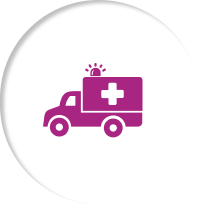
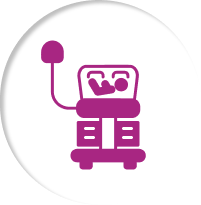
on 19/09

Changed region(s): [[0.1791, 0.1756, 0.7463, 0.8488]]

diff --git a/src/components/Footer/Footer.jsx b/src/components/Footer/Footer.jsx
@@ -53,17 +53,12 @@ const Footer = () => {
         {/* Logo + Info */}
         <div className="space-y-4 text-center lg:text-left flex flex-col items-center lg:items-start">
           <img src={logo} alt="Aansh Logo" />
-          <p className="font-semibold text-base text-secondary md:max-w-md lg:w-full">
+          <p className="font-semibold text-base text-secondary max-w-xs lg:w-full">
             Aansh Children's Hospital offers trusted, compassionate care for
             women and children with expert doctors, innovation, and easy
             appointment booking.
           </p>
-          <button
-            onClick={() => setShowAppointmentModal(true)}
-            className="bg-primary text-white px-4 py-2 rounded-md flex items-center gap-2 mt-4 hover:bg-white hover:text-primary border border-primary"
-          >
-            <span>📅</span> Book an Appointment <span>➔</span>
-          </button>
+          
         </div>
 
         {/* Dynamic Sections */}
@@ -73,7 +68,7 @@ const Footer = () => {
             <div className="lg:hidden">
               <button
                 onClick={() => setOpenIndex(openIndex === i ? null : i)}
-                className="w-full flex justify-between items-center border-b-2 border-primary pb-3 text-2xl font-bold text-primary"
+                className="w-full flex justify-between items-center border-b-2 border-primary pb-1 text-xl font-bold text-primary"
               >
                 {section.title}
                 <FaChevronDown
@@ -81,7 +76,7 @@ const Footer = () => {
                 />
               </button>
               {openIndex === i && (
-                <ul className="mt-2 space-y-1 pl-2">
+                <ul className="pl-2">
                   {section.links.map((link, idx) => (
                     <li key={idx}>
                       <Link
@@ -119,10 +114,10 @@ const Footer = () => {
 
         {/* Location */}
         <div>
-          <h3 className="font-bold text-2xl text-primary mb-2">Location</h3>
+          <h3 className="font-bold text-xl lg:text-2xl text-primary mb-2">Location</h3>
           <p className="text-secondary font-bold">{locationDetails.address}</p>
           <h4 className="mt-4 text-primary font-bold text-xl lg:text-2xl">Call Us</h4>
-          <p className="text-secondary font-semibold text-lg lg:text-xl">{locationDetails.phone}</p>
+          <p className="text-secondary font-semibold ">{locationDetails.phone}</p>
         </div>
       </div>
 

diff --git a/src/components/Home/OurService.jsx b/src/components/Home/OurService.jsx
@@ -9,8 +9,20 @@ import icon3 from "../../assets/servicesSectionImg3.png";
 import icon4 from "../../assets/servicesSectionImg4.png";
 import icon5 from "../../assets/servicesSectionImg5.png";
 import icon6 from "../../assets/servicesSectionImg6.png";
+import { p } from "motion/react-client";
 
 const services = [
+  {
+    title: (
+  <>
+    NICU Level 3A New <br />
+    (Neonatal Intensive Care Unit)
+  </>
+),
+
+    desc: "Providing advanced neonatal care for fragile newborns with compassion",
+    icon: icon3,
+  },
   {
     title: "Isolation NICU for septic infants",
     desc: "Dedicated NICU for septic newborns ensures safe, isolated care for infectious and vulnerable babies.",
@@ -20,11 +32,6 @@ const services = [
     title: "Mother-Baby Kangaroo Care Space",
     desc: "Safe, nurturing space for mother-baby bonding through Kangaroo Care and breastfeeding support.",
     icon: icon2,
-  },
-  {
-    title: "Latest & Well Equipped Ambulance",
-    desc: "Latest and fully equipped ambulance services for emergency medical support.",
-    icon: icon3,
   },
   {
     title: "Well equipped 2 Bedded PICU (Paediatric Intensive Care)",
@@ -74,7 +81,7 @@ const OurService = () => {
                 <h3 className="text-lg sm:text-xl md:text-2xl font-bold text-primary">
                   {item.title}
                 </h3>
-                <p className="text-sm sm:text-base text-secondary font-medium">
+                <p className="text-sm sm:text-base text-secondary font-medium 2xl:max-w-[260px] mx-auto">
                   {item.desc}
                 </p>
               </div>

diff --git a/src/components/Home/MeetDoct.jsx b/src/components/Home/MeetDoct.jsx
@@ -1,0 +1,32 @@
+import React from "react";
+import MeetImg from "../../assets/MeetImg.webp";
+
+const MeetDoct = () => {
+  return (
+    <section className="py-8 md:py-16">
+      <div className="container pr-0 grid grid-cols-1 lg:grid-cols-2 gap-4">
+        {/* Image Section */}
+        <div className="order-2 lg:order-1">
+          <img src={MeetImg} alt="" className="w-[80%] mx-auto" />
+        </div>
+
+        {/* Text Section */}
+        <div className="order-1 lg:order-2 text-right space-y-6 lg:space-y-14 my-auto">
+          <div className="bg-gradient-to-r from-primary to-[#737373]/10 h-[60px]"></div>
+          <h1 className="text-primary text-center lg:text-right text-2xl lg:text-5xl font-bold container">
+            Meet Our Doctor
+          </h1>
+          <p className="text-secondary text-center lg:text-right md:text-xl lg:text-2xl leading-snu container pl-0 pb-14 lg:pb-0" >
+            With years of experience and a commitment to holistic healing, our
+            doctor provides personalized care that blends traditional wisdom
+            with modern medical practices. Dedicated to your health and
+            well-being, he ensures every patient receives compassionate guidance
+            and effective treatment.
+          </p>
+        </div>
+      </div>
+    </section>
+  );
+};
+
+export default MeetDoct;

diff --git a/src/components/FAQ/ContactHero.jsx b/src/components/FAQ/ContactHero.jsx
@@ -4,6 +4,7 @@ import "aos/dist/aos.css";
 // import bg from "../../assets/FAQ/Mask_group(1).png";
 import bg from "../../assets/FAQ/Mask_group.png";
 import { Link } from "react-router-dom";
+import { IoMdCall } from "react-icons/io";
 
 const ContactHero = () => {
   useEffect(() => {
@@ -29,12 +30,12 @@ const ContactHero = () => {
           or need assistance, know that we’re more than just a healthcare
           provider – we’re your dedicated companions.
         </p>
-        <a href="tel:9737971953">
-  <button className="bg-primary text-white font-bold px-8 py-3 rounded-lg hover:bg-primary/80 transition text-lg font-primary shadow">
-    Call Us
-  </button>
-</a>
-
+        <a
+          href="tel:9737971953"
+          className="flex items-center justify-center max-w-[200px] gap-3 bg-[#A82682] text-white text-lg md:text-xl font-bold rounded-xl px-10 py-3 shadow-md hover:bg-[#8d1e6d] transition"
+        >
+          <IoMdCall className="text-3xl" /> Call Us
+        </a>
       </div>
       {/* Right Image */}
       <div className="flex-1 flex justify-right items-right mt-8 md:mt-0">

diff --git a/src/components/Navbar/Navbar.jsx b/src/components/Navbar/Navbar.jsx
@@ -81,7 +81,7 @@ const Navbar = () => {
                     key={to}
                     to={to}
                     className={({ isActive }) =>
-                      `px-2 py-[6px] rounded-lg font-bold text-base transition-colors duration-200 ${
+                      `px-4 py-[6px] rounded-lg font-bold text-base transition-colors duration-200 ${
                         isActive
                           ? "bg-white text-[#A82682]"
                           : "text-white hover:bg-white/20"
@@ -179,7 +179,7 @@ const Navbar = () => {
         target="_blank"
         rel="noopener noreferrer"
         aria-label="Chat on WhatsApp"
-        className="fixed bottom-3 md:bottom-28 right-3 sm:right-6 md:right-8 z-50 bg-primary text-white rounded-full shadow-lg flex items-center justify-center p-4 hover:bg-green-600 transition"
+        className="fixed bottom-3 md:bottom-24 right-3 sm:right-6 md:right-8 z-50 bg-primary text-white rounded-full shadow-lg flex items-center justify-center p-4 hover:bg-green-600 transition"
       >
         <FaWhatsapp className="text-2xl" />
       </a>

diff --git a/src/components/Facilities/OurHospital.jsx b/src/components/Facilities/OurHospital.jsx
@@ -149,10 +149,10 @@ const OurHospitalFacilities = () => {
 
       {/* Highlight Banner */}
       <div
-        className="w-full bg-gradient-to-r from-white via-[#cc8ba8] to-[#A82682] py-4 "
-        data-aos="fade-up"
-      >
-        <p className="text-center text-white text-base md:text-xl lg:text-2xl font-semibold container w-2/3 lg:w-3/5">
+          className="w-full bg-gradient-to-r from-primary/40 via-primary/80 to-primary py-4 "
+          data-aos="zoom-in-up"
+        >
+        <p className="text-center text-white text-base md:text-xl lg:text-2xl font-semibold container w-5/6 lg:w-3/5">
           Our hospital ensures convenience and safety with well-organized
           parking, a fully-stocked in-house pharmacy, and 24/7 ambulance service
           — all designed to support patients, visitors, and staff efficiently.

diff --git a/src/pages/NotFound.jsx b/src/pages/NotFound.jsx
@@ -1,0 +1,22 @@
+import { Link } from "react-router-dom";
+import { FaHome } from "react-icons/fa";
+
+const NotFound = () => {
+  return (
+    <div className="flex flex-col items-center justify-center min-h-screen bg-gray-100 text-center px-4">
+      <h1 className="text-7xl font-extrabold text-primary">404</h1>
+      <h2 className="text-2xl md:text-3xl font-bold mt-4">Page Not Found</h2>
+      <p className="text-gray-600 mt-2">
+        Oops! The page you’re looking for doesn’t exist.
+      </p>
+      <Link
+        to="/"
+        className="mt-6 flex items-center gap-2.5 bg-primary text-white px-5 py-3 rounded-lg shadow hover:bg-fuchsia-700 transition"
+      >
+        <FaHome className="text-xl" /> Back to Home
+      </Link>
+    </div>
+  );
+};
+
+export default NotFound;

diff --git a/src/App.jsx b/src/App.jsx
@@ -17,6 +17,7 @@ import Contact from "./pages/Contact/Contact";
 import Faq from "./pages/FAQ/Faq";
 import AOS from "aos";
 import "aos/dist/aos.css";
+import NotFound from "./pages/NotFound";
 
 function AppContent() {
   const location = useLocation();
@@ -43,9 +44,10 @@ function AppContent() {
         <Route path="/services" element={<Services />} />
         <Route path="/facilities" element={<Facilities />} />
         <Route path="/achievement" element={<Achievement />} />
-        {/* <Route path="/career" element={<Career />} /> */}
         <Route path="/contact" element={<Contact />} />
         <Route path="/faq" element={<Faq />} />
+         {/* Catch-all 404 Route */}
+        <Route path="*" element={<NotFound />} />
       </Routes>
       <Footer />
     </>

diff --git a/src/components/About/Contact.jsx b/src/components/About/Contact.jsx
@@ -31,12 +31,11 @@ const Contact = () => {
           </p>
           {/* Button */}
           <a
-  href="tel:9737971953"
-  className="flex items-center justify-center gap-3 bg-[#A82682] text-white text-lg md:text-xl font-bold rounded-xl px-10 py-3 shadow-md hover:bg-[#8d1e6d] transition"
->
-  <IoMdCall className="text-3xl" /> Call Us
-</a>
-
+            href="tel:9737971953"
+            className="flex items-center justify-center gap-3 bg-[#A82682] text-white text-lg md:text-xl font-bold rounded-xl px-10 py-3 shadow-md hover:bg-[#8d1e6d] transition"
+          >
+            <IoMdCall className="text-3xl" /> Call Us
+          </a>
         </div>
         {/* Right: Telephone image */}
         <div

diff --git a/src/pages/Home/Home.jsx b/src/pages/Home/Home.jsx
@@ -11,6 +11,7 @@ import OurFacilities from "../../components/Home/OurFacilities";
 import WhyChooseUs from "../../components/Home/WhyChooseUs";
 import CuttingEdge from "../../components/Home/CuttingEdge";
 import HomeHeader from "../../components/Home/HomeHeader";
+import MeetDoct from "../../components/Home/MeetDoct";
 
 const Home = () => {
   const location = useLocation();
@@ -32,6 +33,10 @@ const Home = () => {
         {/* Sections with AOS animations */}
         <div data-aos="fade-up">
           <WeAre />
+        </div>
+
+        <div data-aos="fade-up">
+          <MeetDoct />
         </div>
 
         <div data-aos="fade-up">

diff --git a/src/components/About/ParentsTrust.jsx b/src/components/About/ParentsTrust.jsx
@@ -44,7 +44,7 @@ const ParentsTrust = () => {
       <div id="team" className="container xl:px-0 w-full flex flex-col items-center justify-center py-8 md:py-16 space-y-0 scroll-mt-24">
         <img src={staff} alt="" data-aos="zoom-in" className="w-full pointer-events-none" />
         <div
-          className="w-full bg-gradient-to-r from-white via-[#cc8ba8] to-[#A82682] py-4 px-4"
+          className="w-full bg-gradient-to-r from-primary/20 via-primary/80 to-primary py-4 px-4"
           data-aos="zoom-in-up"
         >
           <p className="text-center text-white text-sm sm:text-base md:text-lg font-semibold max-w-4xl mx-auto">

diff --git a/src/components/Facilities/FacilitiesHeader.jsx b/src/components/Facilities/FacilitiesHeader.jsx
@@ -7,7 +7,7 @@ import { IoMdContact } from "react-icons/io";
 const FacilitiesHeader = () => {
   return (
     <section
-      className="relative mt-[63px] md:mt-[80px] px-0 w-full h-[210px] sm:h-[320px] md:h-[310px] lg:h-[420px] xl:h-[650px] bg-cover bg-center"
+      className="relative mt-[15px] md:mt-[56px] px-0 w-full h-[210px] sm:h-[320px] md:h-[310px] lg:h-[420px] xl:h-[650px] bg-cover bg-center"
       style={{ backgroundImage: `url(${HeaderFacilitiesImg1})` }}
     >
       {/* Optional Text/CTA Section */}
